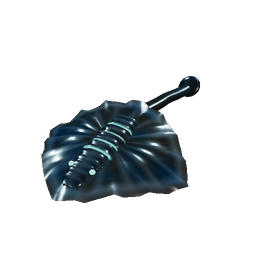
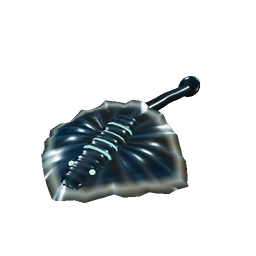
Sail leech: its canvas edge on the palette (sand_cloth toward coral_stone_weathered, not #B9B1A0)
Claude-Session: https://claude.ai/code/session_01UPFyE7ob7hr4Skv4cw3rtN

diff --git a/assets_src/creatures/sail_leech/build_sail_leech.py b/assets_src/creatures/sail_leech/build_sail_leech.py
@@ -38,7 +38,8 @@ FRILL = 0.022  # the edge frill's ripple (the sail-like canvas edge)
 # height it was seen edge-on, a row of glowing dashes on the night deck)
 KO_DROP = 0.97
 CANVAS_FROM = 0.74  # where the pale canvas edge begins (share of the radius)
-CANVAS = ck.hexrgb("#B9B1A0")  # old salt-bleached sailcloth
+# old salt-bleached sailcloth: sand_cloth weathered toward coral_stone_weathered
+CANVAS = ck.mix(ck.hexrgb("#C9B48E"), ck.hexrgb("#B9AE98"), 0.7)
 FRILL_WAVES = 14.0
 SLIT_Z = (0.18, 0.11)  # the first wound slit's z and the step back to the next (four slits)
 EYE = (0.09, 0.29, 0.38)  # x, y and z of the eyes
